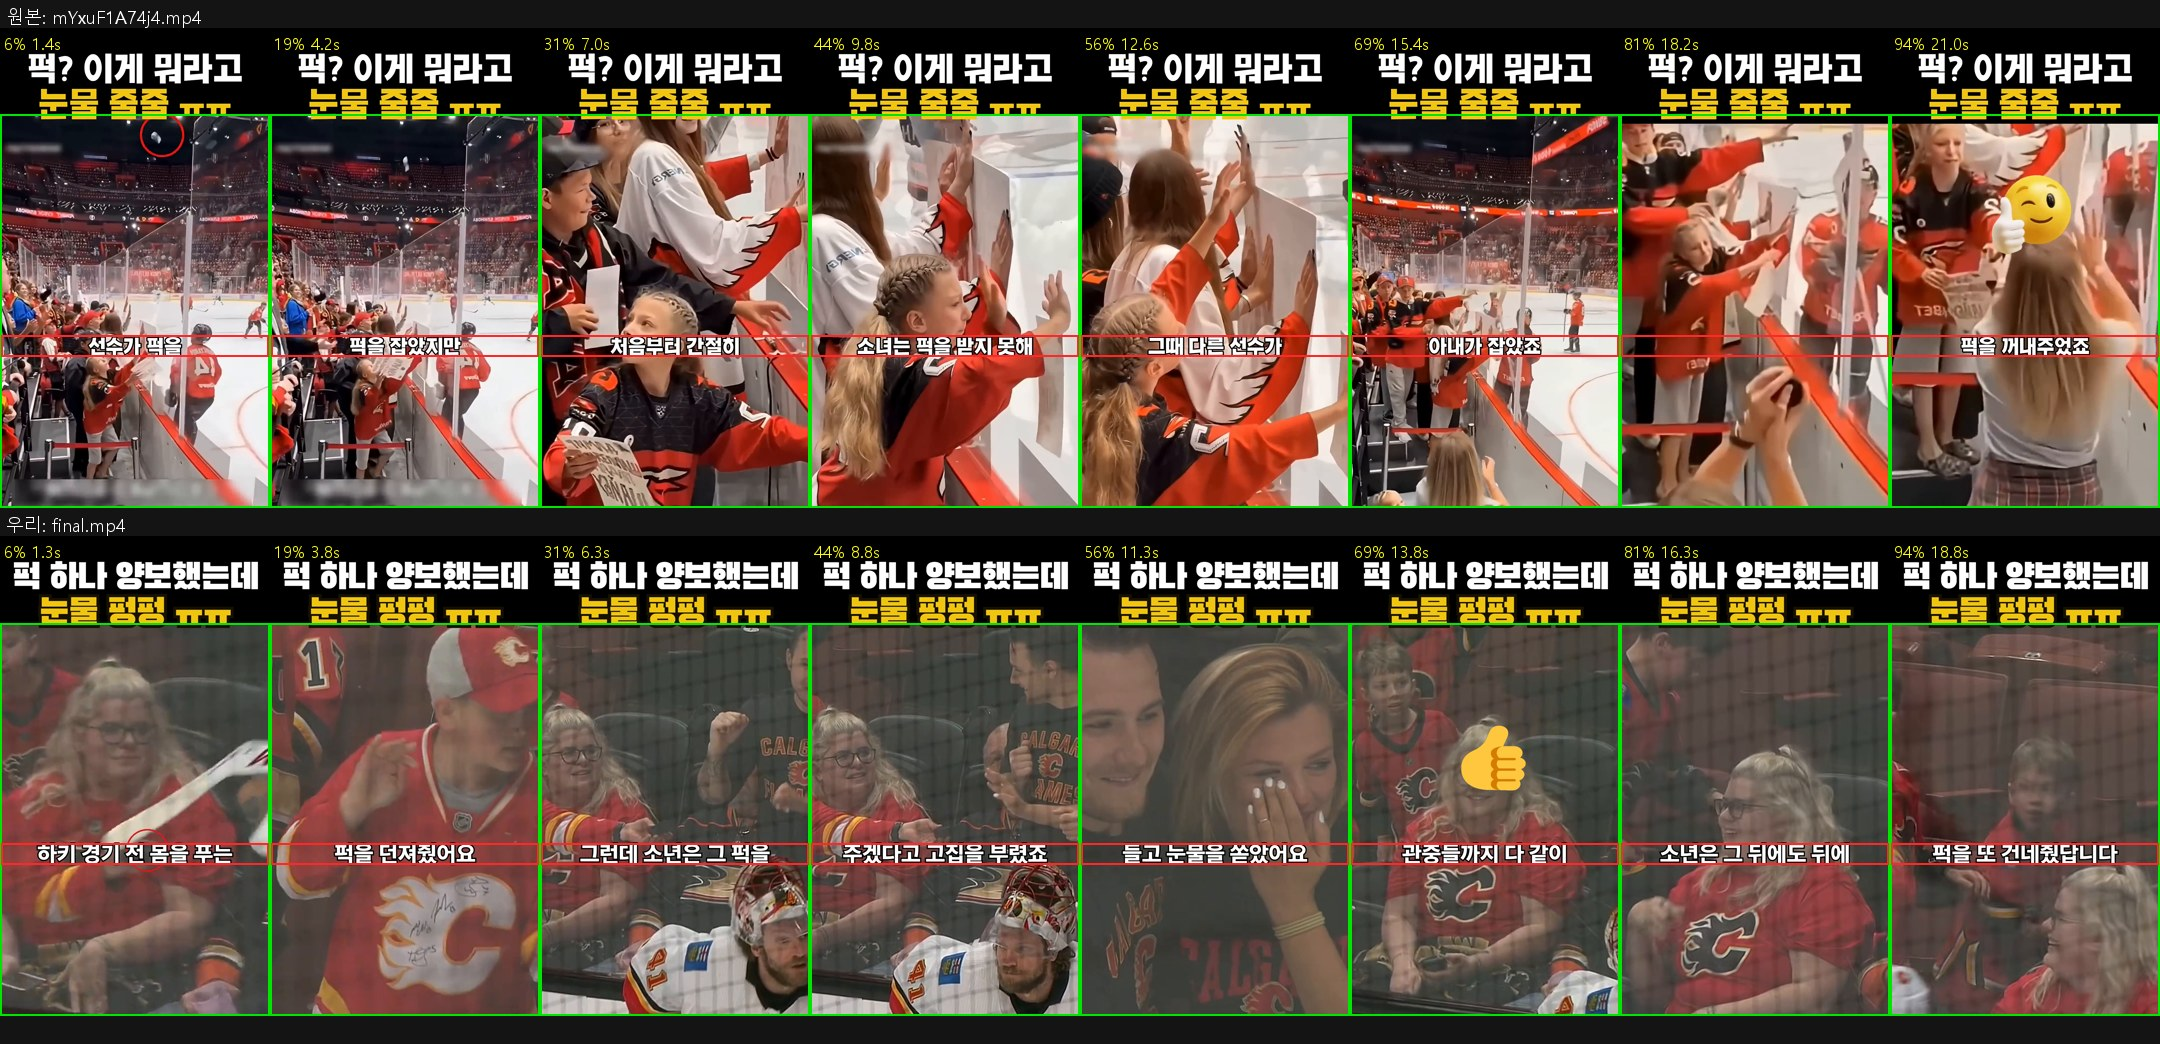
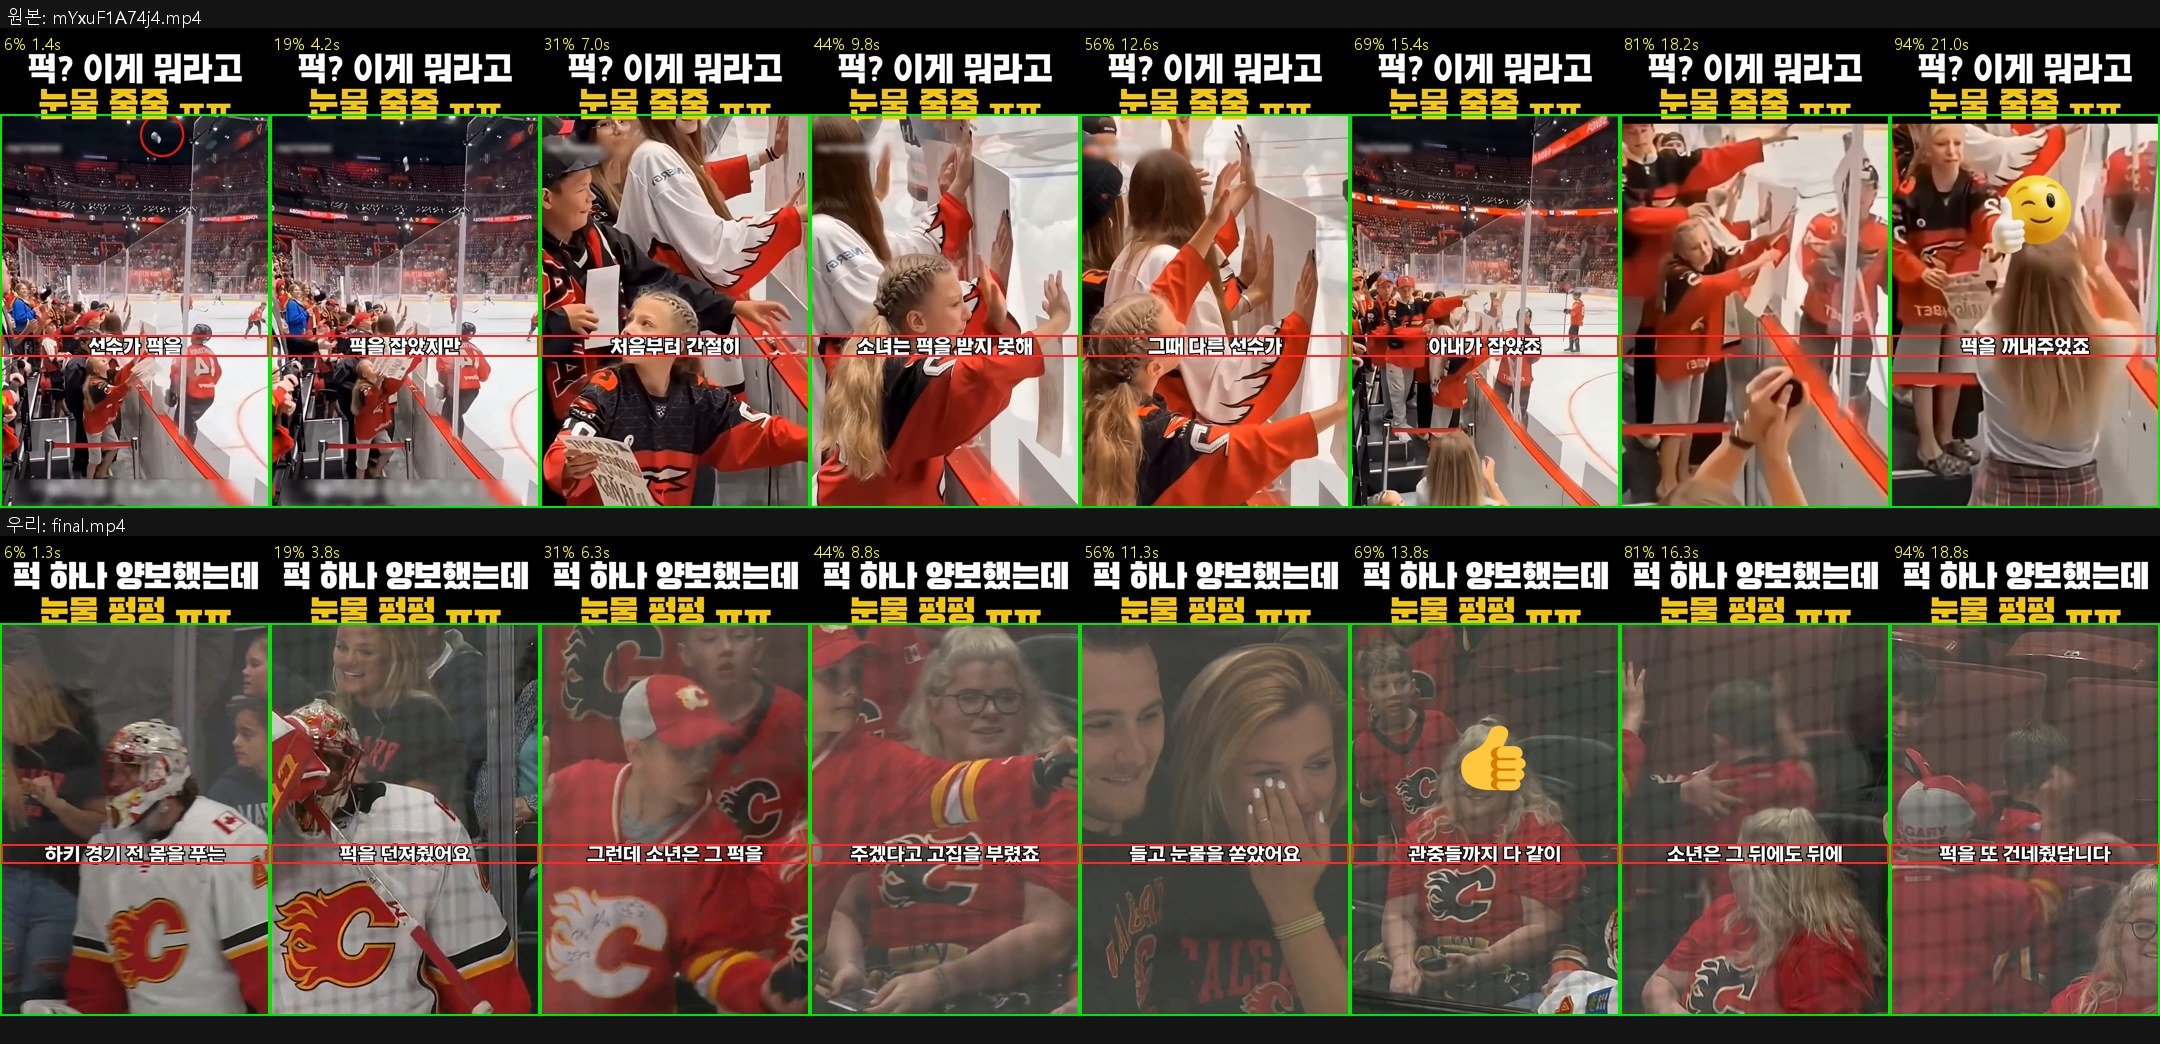
mY 3호 재료 3곳 교체(조율자 10-16): 0번 컷 골리 퍽 튕기기만(OEKo 0~4.8, x560)+빨간 원 퍽 1프레임 추적 · 2번 줄 소년이 퍽 내미는 장면(OEKo 4.5~, x100, 골리 빠짐) · 5번 줄 소년부터(NGJk 30.3) · 제목 둘째 줄 외곽선 없음(원본 실측 0px) · 자막 83.2px(틀 담당 채움 상자 627 기준)·y1225 — 나레 그대로(TTS 호출 0) (관제 097)
Claude-Session: https://claude.ai/code/session_01BTrZqzTa3Berb8VK4gs4B4

Changed region(s): [[0.0, 0.5824, 1.0, 0.9808]]

diff --git a/channel/sseolpulda/칼카피_mY/대조/차이표.md b/channel/sseolpulda/칼카피_mY/대조/차이표.md
@@ -4,8 +4,8 @@
 - 우리: `C:\숏템_칼카피\sseolpulda\칼카피_mY\make\final.mp4` (20.067초)
 - 자: bench_one.measure(layout_mode=`single`) — 두 영상에 같은 함수
 - 규칙 자료(뜯기.json): 원본 `None` · 우리 `None`
-- **판정(① 픽셀 수준만): 미달** (기준 24개 중 안 16개)
-- ① 밖: 제목 블록 아래 끝~창 위 끝(px), 창 위 띠1 [101,222) 글자 높이(px), 창 위 띠2 [243,347) 잉크 비율, 등장효과(최빈), 컷 길이 중앙(초), 컷 길이 p90(초)
+- **판정(① 픽셀 수준만): 미달** (기준 24개 중 안 12개)
+- ① 밖: 자막 띠 [y0,y1), 제목 블록 아래 끝~창 위 끝(px), 창 위 띠1 [101,222) 글자 높이(px), 창 위 띠2 [243,347) 잉크 비율, 줄 폭 중앙(px), 첫 줄 높이 중앙(px), 획 두께 중앙(px), 등장효과(최빈), 컷 길이 중앙(초), 컷 길이 p90(초)
 - ① 못 잼: 창 위 띠2 [243,347) 글자 높이(px) (failed:우리: glyph_style 이 이 띠에서 글자를 못 찾음), 창 위 띠2 [243,347) 획 두께(px) (failed:우리: glyph_style 이 이 띠에서 글자를 못 찾음)
 - ② 규칙 수준(판정 제외): 안 1개 · 밖 없음 · 미측정 10개
 
@@ -17,22 +17,22 @@
 | 틀 | 배경 RGB | [0, 0, 0] | [0, 0, 0] | 0 | 배경 RGB 채널 최대차 ≤ 8 | 안 | `layout.measure_video` |
 | 틀 | 자막 자리 | inside | inside | 같음 | 자막 자리(위/아래/안) 같음 | 안 | `layout._caption` |
 | 틀 | 자막 잉크 극성 | bright | bright | 같음 | 자막 잉크 극성 같음 | 안 | `layout._caption` |
-| 틀 | 자막 띠 [y0,y1) | [1231, 1315] | [1231, 1312] | 3 | 자막 띠 y0,y1 차 ≤ 4px (틀 좌표 기준 §6-1) | 안 | `layout._caption` |
+| 틀 | 자막 띠 [y0,y1) | [1231, 1315] | [1235, 1310] | 5 | 자막 띠 y0,y1 차 ≤ 4px (틀 좌표 기준 §6-1) | **밖** | `layout._caption` |
 | 틀 | 창 위 고정 띠 [[y0,y1)…] | [[101, 222], [243, 347]] | [[100, 213], [243, 348]] | 다름 | 참고(설계에 기준 수치 없음) | 참고 | `layout.measure_video(above_bands)` |
 | 틀 | 띠 색 | - | - | - | 참고(설계에 기준 수치 없음) | 참고(failed:원본: bench에 띠 색을 재는 자가 없음(layout은 창 밖 배경 RGB만 잰다) / 우리: bench에 띠 색을 재는 자가 없음(layout은 창 밖 배경 RGB만 잰다)) | `-` |
 | 틀 | 창 위 고정 글자 띠 개수 | 2 | 2 | 같음 | 창 위 고정 글자 띠 개수 같음 | 안 | `bands.measure_video` |
 | 틀 | 제목 블록 아래 끝~창 위 끝(px) | 1 | 136 | 135 | 제목 블록 아래 끝~창 위 끝 간격 차 ≤ 8px | **밖** | `layout.window − bands.ink_bottom` |
 | 틀 | 창 위 띠1 [101,222) 글자 높이(px) | 120 | 112 | -8.0 (6.7%) | 띠 글자 높이 차 ≤ 6% | **밖** | `bands.band_style(captions.glyph_style)` |
 | 틀 | 창 위 띠1 [101,222) 획 두께(px) | 21 | 21 | 0 | 띠 획 두께 차 ≤ 1px | 안 | `bands.band_style(captions.glyph_style)` |
-| 틀 | 창 위 띠1 [101,222) 잉크 비율 | 0.05823 | 0.06847 | 0.01 (17.6%) | 띠 잉크 비율 차 ≤ 20% | 안 | `bands.band_style(layout.ink_mask)` |
+| 틀 | 창 위 띠1 [101,222) 잉크 비율 | 0.05823 | 0.06848 | 0.01 (17.6%) | 띠 잉크 비율 차 ≤ 20% | 안 | `bands.band_style(layout.ink_mask)` |
 | 틀 | 창 위 띠2 [243,347) 글자 높이(px) | 108 | - | - | 띠 글자 높이 차 ≤ 6% | failed:우리: glyph_style 이 이 띠에서 글자를 못 찾음 | `bands.band_style(captions.glyph_style)` |
 | 틀 | 창 위 띠2 [243,347) 획 두께(px) | 14 | - | - | 띠 획 두께 차 ≤ 1px | failed:우리: glyph_style 이 이 띠에서 글자를 못 찾음 | `bands.band_style(captions.glyph_style)` |
 | 틀 | 창 위 띠2 [243,347) 잉크 비율 | 0.0275 | 0 | -0.028 (100.0%) | 띠 잉크 비율 차 ≤ 20% | **밖** | `bands.band_style(layout.ink_mask)` |
-| 자막 | 첫 줄 y 중앙(px) | 1231 | 1231 | 0.0px (0.0% of H1920) | 첫 줄 y 중앙 차 ≤ 화면 높이의 6% | 안 | `captions.caption_lines` |
+| 자막 | 첫 줄 y 중앙(px) | 1231 | 1235 | 4.0px (0.2% of H1920) | 첫 줄 y 중앙 차 ≤ 화면 높이의 6% | 안 | `captions.caption_lines` |
 | 자막 | 줄 수 중앙 | 1 | 1 | 같음 | 줄 수(중앙) 같음 | 안 | `captions.caption_lines` |
-| 자막 | 줄 폭 중앙(px) | 727 | 703 | -24.0 (3.3%) | 줄 폭 중앙 차 ≤ 6% | 안 | `captions.caption_lines` |
-| 자막 | 첫 줄 높이 중앙(px) | 80.5 | 81 | 0.5 (0.6%) | 첫 줄 높이 중앙 차 ≤ 6% | 안 | `captions.glyph_style` |
-| 자막 | 획 두께 중앙(px) | 11 | 10 | 1 | 획 두께 중앙 차 ≤ 1px | 안 | `captions.glyph_style` |
+| 자막 | 줄 폭 중앙(px) | 727 | 649.5 | -77.5 (10.7%) | 줄 폭 중앙 차 ≤ 6% | **밖** | `captions.caption_lines` |
+| 자막 | 첫 줄 높이 중앙(px) | 80.5 | 75 | -5.5 (6.8%) | 첫 줄 높이 중앙 차 ≤ 6% | **밖** | `captions.glyph_style` |
+| 자막 | 획 두께 중앙(px) | 11 | 9 | 2 | 획 두께 중앙 차 ≤ 1px | **밖** | `captions.glyph_style` |
 | 자막 | 외곽선 있음(다수) | 있음 | 있음 | 같음 | 외곽선 유무(다수) 같음 — bench는 굵기 px를 안 재고 유무만 잰다 | 안 | `captions.glyph_style` |
 | 자막 | 그림자 있음(다수) | 없음 | 없음 | 같음 | 참고(설계에 기준 수치 없음) | 참고 | `captions.glyph_style` |
 | 자막 | 등장효과(최빈) | 이동 | 없음 | 다름 | 등장효과 종류(최빈) 같음 | **밖** | `captions.caption_anim` |

diff --git a/channel/sseolpulda/칼카피_mY/plan/계획.md b/channel/sseolpulda/칼카피_mY/plan/계획.md
@@ -21,11 +21,11 @@
 
 | # | 종류 | 소스 | 시작 | 칸 | src_crop | 왜 |
 |---|---|---|---|---|---|---|
-| 0 | 남의영상재편집(대체) | [v_OEKoaunJr9Q.mp4](https://www.youtube.com/watch?v=OEKoaunJr9Q) | 3.3 | 전폭 | [100, 0, 494, 720] | '골리가 한 소년에게 퍽을 던져줬어요' |
-| 1 | 남의영상재편집(대체) | [v_OEKoaunJr9Q.mp4](https://www.youtube.com/watch?v=OEKoaunJr9Q) | 10.0 | 전폭 | - | '옆자리 팬에게 주겠다고 고집' |
+| 0 | 남의영상재편집(대체) | [v_OEKoaunJr9Q.mp4](https://www.youtube.com/watch?v=OEKoaunJr9Q) | 0.0 | 전폭 | [560, 0, 494, 720] | '골리가 관중석의 한 소년에게 퍽을 던져줬어요' — 10-16 조율자: 우는 팬이 먼저 나와 결말을 미리 보여줌 → 골리가 퍽 건네는 장면만 |
+| 1 | 남의영상재편집(대체) | [v_OEKoaunJr9Q.mp4](https://www.youtube.com/watch?v=OEKoaunJr9Q) | 4.5 | 전폭 | [100, 0, 494, 720] | '그런데 소년은 그 퍽을 옆자리 팬에게 주겠다고 고집을 부렸죠' — 10-16 조율자: 골리 얼굴 클로즈업(OEKo 10초~) → 소년이 퍽 내미는 장면으로 교체 |
 | 2 | 남의영상재편집(대체) | [v_OEKoaunJr9Q.mp4](https://www.youtube.com/watch?v=OEKoaunJr9Q) | 42.0 | 전폭 | - | '결국 퍽을 받아 들고 눈물' |
 | 3 | 남의영상재편집(대체) | [v_OEKoaunJr9Q.mp4](https://www.youtube.com/watch?v=OEKoaunJr9Q) | 21.0 | 전폭 | [460, 0, 494, 720] | '주변 관중들까지 다 같이 웃음을 터뜨렸죠' |
-| 4 | 남의영상재편집(대체) | [v_NGJkTR60PGM.mp4](https://www.youtube.com/watch?v=NGJkTR60PGM) | 29.0 | 전폭 | - | '뒤에 있던 더 어린 팬에게 퍽을 또 건네줬답니다' |
+| 4 | 남의영상재편집(대체) | [v_NGJkTR60PGM.mp4](https://www.youtube.com/watch?v=NGJkTR60PGM) | 30.3 | 전폭 | - | '뒤에 있던 더 어린 팬에게 퍽을 또 건네줬답니다' — 10-16 조율자: 시작에 금발 어른이 먼저 → 소년이 보이는 30.3초부터(소스가 길어 앞 컷 늘리기 불필요) |
 
 ## 규칙 예상(렌더 전 — 컷 수 기준, 실제 시간 비율은 렌더 뒤 규칙표)
 
